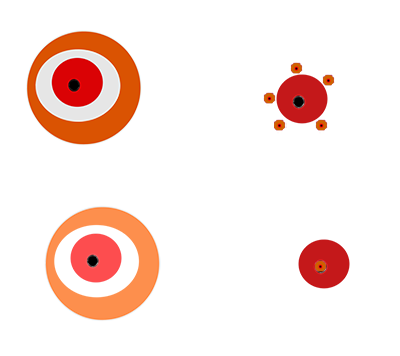
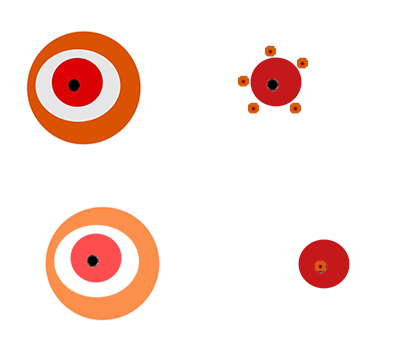
more miniminibosses, eyeboss movement looks more interesting.

Changed region(s): [[0.57, 0.1236, 0.84, 0.3708]]

diff --git a/js/levelOneH2.js b/js/levelOneH2.js
@@ -7260,7 +7260,7 @@
                          "value":"points"
                         }],
                  "rotation":0,
-                 "type":"flyingEnemy2",
+                 "type":"miniminiBoss1",
                  "visible":true,
                  "width":50,
                  "x":12317.6,
@@ -7293,7 +7293,7 @@
                          "value":"points"
                         }],
                  "rotation":0,
-                 "type":"flyingEnemy2",
+                 "type":"miniminiBoss1",
                  "visible":true,
                  "width":50,
                  "x":12180.4,
@@ -7326,7 +7326,7 @@
                          "value":"points"
                         }],
                  "rotation":0,
-                 "type":"flyingEnemy2",
+                 "type":"miniminiBoss1",
                  "visible":true,
                  "width":50,
                  "x":12357.1,
@@ -7359,7 +7359,7 @@
                          "value":"points"
                         }],
                  "rotation":0,
-                 "type":"flyingEnemy2",
+                 "type":"miniminiBoss1",
                  "visible":true,
                  "width":50,
                  "x":12371.6,
@@ -7392,7 +7392,7 @@
                          "value":"points"
                         }],
                  "rotation":0,
-                 "type":"flyingEnemy2",
+                 "type":"miniminiBoss1",
                  "visible":true,
                  "width":50,
                  "x":12247.6,
@@ -7425,7 +7425,7 @@
                          "value":"points"
                         }],
                  "rotation":0,
-                 "type":"flyingEnemy2",
+                 "type":"miniminiBoss1",
                  "visible":true,
                  "width":50,
                  "x":12124,
@@ -7458,7 +7458,7 @@
                          "value":"points"
                         }],
                  "rotation":0,
-                 "type":"flyingEnemy2",
+                 "type":"miniminiBoss1",
                  "visible":true,
                  "width":50,
                  "x":12172,

diff --git a/js/GameEntities/MiniMiniBoss1.js b/js/GameEntities/MiniMiniBoss1.js
@@ -5,7 +5,7 @@ function MiniMiniBoss1(position = {x:0, y:0}, speed = -10, pattern = PathType.No
 	this.worldPos = 0;
 	this.score = 100;
 	
-    this.hitPoints = 4;     // Every enemy type should have a hitPoints property
+    this.hitPoints = 58;     // Every enemy type should have a hitPoints property
 
 	const SPRITE_SCALE = 1;
 	this.position = position;
@@ -14,7 +14,7 @@ function MiniMiniBoss1(position = {x:0, y:0}, speed = -10, pattern = PathType.No
 	this.isVisible = true;
 	let rotation = 0;
 
-    let sprite = new AnimatedSprite(miniminiBoss1Sheet, 6, 50, 50, false, true, {min:0, max:0}, 0, {min:0, max:5}, 256, {min:5, max:5}, 0);
+    let sprite = new AnimatedSprite(miniminiBoss1Sheet, 3, 60, 29, false, true, {min:0, max:0}, 0, {min:0, max:3}, 256, {min:5, max:5}, 0);
 	
 	this.size = {width:SPRITE_SCALE * sprite.width, height:SPRITE_SCALE * sprite.height};
 

diff --git a/js/GameEntities/AlienBoss1.js b/js/GameEntities/AlienBoss1.js
@@ -6,7 +6,7 @@ function AlienBoss1(position = {x:0, y:0}, speed = 10, pattern = PathType.None, 
 	this.score = 100;
 	let previousBackgroundMusic = null;
 
-    this.hitPoints = 2400;     // Every enemy type should have a hitPoints property
+    this.hitPoints = 2800;     // Every enemy type should have a hitPoints property
 	
 	const SPRITE_SCALE = 1; 
 	this.position = position;
@@ -137,13 +137,13 @@ function AlienBoss1(position = {x:0, y:0}, speed = 10, pattern = PathType.None, 
 			
 		}
 		if(this.position.x < 700){
-			this.bulletsLeft = 10;
+			this.bulletsLeft = 100;
 		}
 		if(this.position.x < 650){
-			this.bulletsLeft = 10;
+			this.bulletsLeft = 100;
 		}
 		if(this.position.x < 640){
-			this.bulletsLeft = 10;
+			this.bulletsLeft = 100;
 		}
 		if(this.position.x < 500){
 			this.vel.x = 0

diff --git a/js/GameEntities/EyeBoss1.js b/js/GameEntities/EyeBoss1.js
@@ -41,10 +41,12 @@ function EyeBoss1(position = {x:0, y:0}, speed = 10, pattern = PathType.None, ti
 	
 	const pathPoints = [
 		{x: GameField.right - this.size.width, y: GameField.midY},
+		{x: GameField.x + GameField.width / 5, y: GameField.y + 60},
 		{x: GameField.right - this.size.width, y: GameField.y},
 		{x: GameField.right - this.size.width, y: GameField.bottom - this.size.height},
 		{x: GameField.right - this.size.width, y: GameField.y},
 		{x: GameField.right - this.size.width, y: GameField.bottom - this.size.height},
+		{x: GameField.x + GameField.width/2, y: GameField.y},
 //		{x: GameField.right - this.size.width, y: GameField.y},
 	];//TODO: Give the mini boss a path to follow
 	
